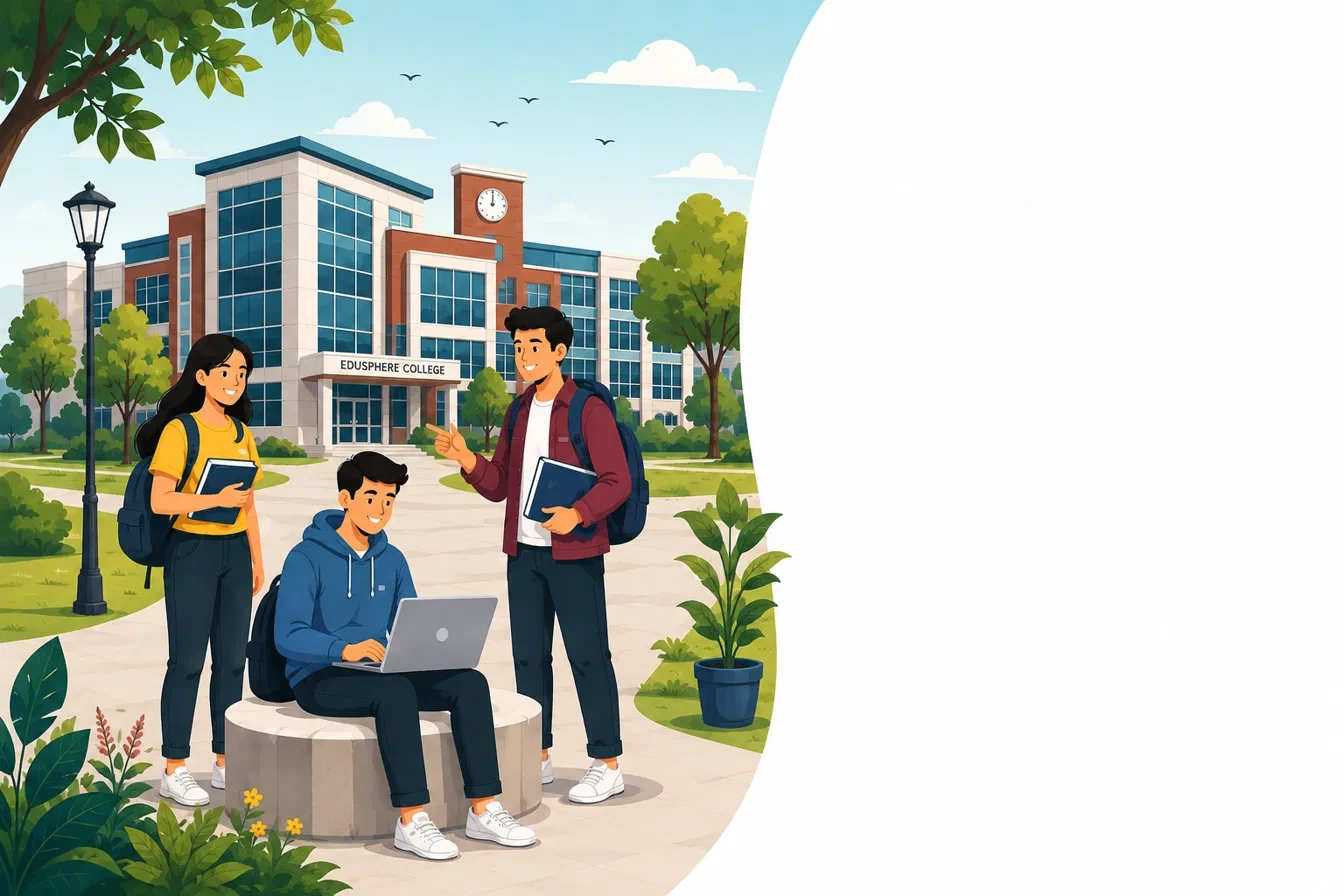
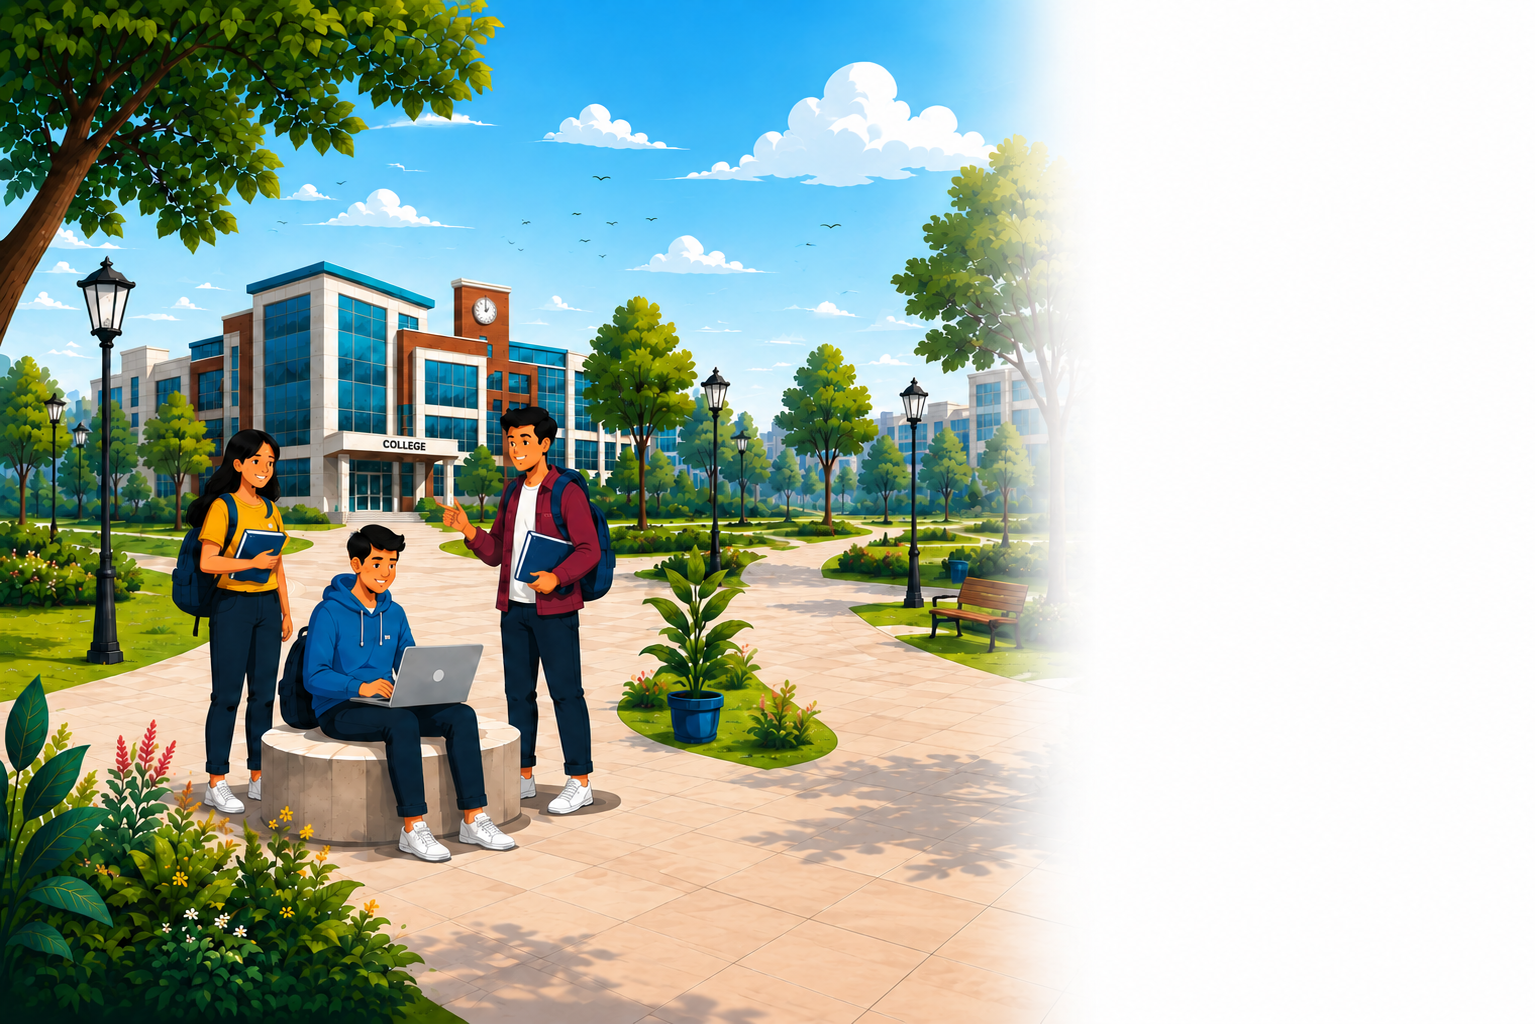
frontend updated

diff --git a/frontend-web/src/pages/LoginPage.tsx b/frontend-web/src/pages/LoginPage.tsx
@@ -129,185 +129,197 @@ export function LoginPage() {
   }
 
   return (
-    <div className="relative min-h-screen w-full overflow-hidden bg-white">
-      {/* Single full-bleed illustration, edge to edge - its own built-in
-          white area is where the form sits, no card/box around any of it. */}
-      <img
-        src={campusIllustration}
-        alt="Students on campus outside the college building"
-        draggable={false}
-        className="absolute inset-0 hidden h-full w-full select-none object-cover lg:block"
-      />
+    <div className="relative flex h-screen w-full overflow-hidden bg-white">
+      {/* Left column: illustration. object-cover fills its own column
+          completely (no empty gaps); object-position centers the crop.
+          The brand mark is overlaid on top of the illustration itself
+          (top-left corner) instead of living in the form column. */}
+      <div className="relative hidden h-full w-[53%] overflow-hidden lg:block">
+        <img
+          src={campusIllustration}
+          alt="Students on campus outside the college building"
+          draggable={false}
+          className="h-full w-full select-none"
+          style={{
+            objectFit: 'cover',
+            objectPosition: '12% center',
+            transform: 'scale(1)',
+          }}
+        />
 
-      {/* Form fields, placed directly on the image's white area. */}
-      <div className="relative flex min-h-screen w-full flex-col p-6 sm:p-10 lg:absolute lg:inset-y-0 lg:right-0 lg:flex lg:min-h-0 lg:w-[45%] lg:items-center lg:justify-center lg:p-12">
+        {/* Brand mark overlay - top left of the illustration */}
+        <div className="absolute left-8 top-8 flex items-end gap-3">
+          <BrandMark />
+          <span className="pt-1.5 text-xl font-semibold text-white drop-shadow-md">
+            EduSphere <span style={{ color: '#4ADE80' }}>ERP</span>
+          </span>
+        </div>
+      </div>
+
+      {/* Right column: form fields on a plain white background.
+          overflow-hidden (no scrollbar) - content is expected to fit
+          within the viewport height. */}
+      <div className="flex h-screen w-full flex-col overflow-hidden p-6 sm:p-10 lg:flex lg:h-full lg:w-[45%] lg:items-center lg:justify-center lg:p-12">
         <motion.div
           className="w-full max-w-[420px]"
           variants={formStagger}
           initial="hidden"
           animate="show"
         >
-          <motion.div variants={formField} className="mb-8 flex items-center gap-3">
-            <BrandMark />
-            <span className="text-xl font-semibold text-[#1F2937]">
-              EduSphere <span style={{ color: '#15803D' }}>ERP</span>
-              </span>
-            </motion.div>
-
-            <motion.div variants={formField} className="mb-8">
-              <h1 className="text-[36px] font-bold leading-tight text-[#1F2937] sm:text-[40px]">
-                Welcome Back!
-              </h1>
-              <p className="mt-2 text-sm leading-relaxed text-[#6B7280]">
-                Sign in to continue managing your institution.
-              </p>
-            </motion.div>
-
-            <form onSubmit={handleSubmit} className="space-y-4" noValidate>
-              <motion.div variants={formField} className="relative">
-                <Building2
-                  size={18}
-                  className="pointer-events-none absolute left-4 top-1/2 -translate-y-1/2 text-[#6B7280]"
-                />
-                <input
-                  id="collegeCode"
-                  name="collegeCode"
-                  type="text"
-                  autoComplete="organization"
-                  required
-                  value={collegeCode}
-                  onChange={(e) => setCollegeCode(e.target.value)}
-                  placeholder="Institution code"
-                  className="h-14 w-full rounded-2xl border border-[#E5E7EB] bg-white pl-12 pr-4 text-sm uppercase tracking-widest text-[#1F2937] placeholder:text-[#9CA3AF] placeholder:tracking-normal placeholder:normal-case transition-all duration-300 focus:border-[#22C55E] focus:outline-none focus:ring-4 focus:ring-[#22C55E]/15"
-                />
-              </motion.div>
-
-              <motion.div variants={formField} className="relative">
-                <Mail
-                  size={18}
-                  className="pointer-events-none absolute left-4 top-1/2 -translate-y-1/2 text-[#6B7280]"
-                />
-                <input
-                  id="email"
-                  name="email"
-                  type="email"
-                  autoComplete="email"
-                  required
-                  value={email}
-                  onChange={(e) => setEmail(e.target.value)}
-                  placeholder="Email address"
-                  className="h-14 w-full rounded-2xl border border-[#E5E7EB] bg-white pl-12 pr-4 text-sm text-[#1F2937] placeholder:text-[#9CA3AF] transition-all duration-300 focus:border-[#22C55E] focus:outline-none focus:ring-4 focus:ring-[#22C55E]/15"
-                />
-              </motion.div>
-
-              <motion.div variants={formField} className="relative">
-                <Lock
-                  size={18}
-                  className="pointer-events-none absolute left-4 top-1/2 -translate-y-1/2 text-[#6B7280]"
-                />
-                <input
-                  id="password"
-                  name="password"
-                  type={showPassword ? 'text' : 'password'}
-                  autoComplete="current-password"
-                  required
-                  value={password}
-                  onChange={(e) => setPassword(e.target.value)}
-                  placeholder="Password"
-                  className="h-14 w-full rounded-2xl border border-[#E5E7EB] bg-white pl-12 pr-12 text-sm text-[#1F2937] placeholder:text-[#9CA3AF] transition-all duration-300 focus:border-[#22C55E] focus:outline-none focus:ring-4 focus:ring-[#22C55E]/15"
-                />
-                <button
-                  type="button"
-                  onClick={() => setShowPassword((v) => !v)}
-                  className="absolute right-4 top-1/2 -translate-y-1/2 text-[#6B7280] transition-colors duration-200 hover:text-[#1F2937]"
-                  aria-label={showPassword ? 'Hide password' : 'Show password'}
-                >
-                  {showPassword ? <EyeOff size={18} /> : <Eye size={18} />}
-                </button>
-              </motion.div>
-
-              <motion.div variants={formField} className="flex items-center justify-between pt-1">
-                <label className="flex select-none items-center gap-2 text-sm text-[#6B7280]">
-                  <input
-                    type="checkbox"
-                    checked={rememberMe}
-                    onChange={(e) => setRememberMe(e.target.checked)}
-                    className="h-4 w-4 rounded border-[#E5E7EB] accent-[#22C55E] focus:ring-[#22C55E]"
-                  />
-                  Remember me
-                </label>
-                <Link
-                  to="/forgot-password"
-                  className="text-sm font-medium text-[#15803D] transition-colors duration-200 hover:text-[#22C55E]"
-                >
-                  Forgot Password?
-                </Link>
-              </motion.div>
-
-              <AnimatePresence>
-                {error && (
-                  <motion.div
-                    role="alert"
-                    initial={{ opacity: 0, x: 0 }}
-                    animate={{ opacity: 1, x: [0, -6, 6, -4, 4, 0] }}
-                    exit={{ opacity: 0, height: 0 }}
-                    transition={{ duration: 0.4 }}
-                    className="rounded-xl border border-red-200 bg-red-50 px-4 py-3 text-sm text-red-600"
-                  >
-                    {error}
-                  </motion.div>
-                )}
-              </AnimatePresence>
-
-              <motion.button
-                variants={formField}
-                type="submit"
-                disabled={isSubmitting}
-                whileHover={isSubmitting ? undefined : { y: -2 }}
-                whileTap={isSubmitting ? undefined : { scale: 0.98 }}
-                className="flex h-14 w-full items-center justify-center gap-2 rounded-2xl bg-gradient-to-r from-[#22C55E] to-[#15803D] text-sm font-semibold text-white shadow-md transition-all duration-300 hover:from-[#16A34A] hover:to-[#14532D] hover:shadow-lg disabled:cursor-not-allowed disabled:opacity-60"
-              >
-                {isSubmitting && <Loader2 size={16} className="animate-spin" />}
-                {isSubmitting ? 'Signing in…' : 'Sign In'}
-              </motion.button>
-            </form>
-
-            <motion.div variants={formField} className="my-7 flex items-center gap-3">
-              <span className="h-px flex-1 bg-[#E5E7EB]" />
-              <span className="text-xs font-medium uppercase tracking-wider text-[#6B7280]">
-                Or continue with
-              </span>
-              <span className="h-px flex-1 bg-[#E5E7EB]" />
-            </motion.div>
-
-            <motion.div variants={formField} className="grid grid-cols-2 gap-3">
-              {/* Not wired to a real identity provider yet - visual placeholders
-                  matching the requested design; see chat for follow-up. */}
-              <button
-                type="button"
-                disabled
-                className="flex h-12 items-center justify-center gap-2 rounded-2xl border border-[#E5E7EB] bg-white text-sm font-medium text-[#1F2937] opacity-60 transition-all duration-300 hover:-translate-y-0.5 hover:border-[#22C55E]/40"
-                title="Google sign-in isn't connected yet"
-              >
-                <GoogleIcon />
-                Google
-              </button>
-              <button
-                type="button"
-                disabled
-                className="flex h-12 items-center justify-center gap-2 rounded-2xl border border-[#E5E7EB] bg-white text-sm font-medium text-[#1F2937] opacity-60 transition-all duration-300 hover:-translate-y-0.5 hover:border-[#22C55E]/40"
-                title="Microsoft sign-in isn't connected yet"
-              >
-                <MicrosoftIcon />
-                Microsoft
-              </button>
-            </motion.div>
-
-            <motion.p variants={formField} className="mt-9 text-center text-xs text-[#6B7280]">
-              © {new Date().getFullYear()} EduSphere ERP. All rights reserved.
-            </motion.p>
+          <motion.div variants={formField} className="mb-8">
+            <h1 className="text-[36px] font-bold leading-tight text-[#1F2937] sm:text-[40px]">
+              Welcome Back!
+            </h1>
+            <p className="mt-2 text-sm leading-relaxed text-[#6B7280]">
+              Sign in to continue managing your institution.
+            </p>
           </motion.div>
-        </div>
+
+          <form onSubmit={handleSubmit} className="space-y-4" noValidate>
+            <motion.div variants={formField} className="relative">
+              <Building2
+                size={18}
+                className="pointer-events-none absolute left-4 top-1/2 -translate-y-1/2 text-[#6B7280]"
+              />
+              <input
+                id="collegeCode"
+                name="collegeCode"
+                type="text"
+                autoComplete="organization"
+                required
+                value={collegeCode}
+                onChange={(e) => setCollegeCode(e.target.value)}
+                placeholder="Institution code"
+                className="h-14 w-full rounded-2xl border border-[#E5E7EB] bg-white pl-12 pr-4 text-sm uppercase tracking-widest text-[#1F2937] placeholder:text-[#9CA3AF] placeholder:tracking-normal placeholder:normal-case transition-all duration-300 focus:border-[#22C55E] focus:outline-none focus:ring-4 focus:ring-[#22C55E]/15"
+              />
+            </motion.div>
+
+            <motion.div variants={formField} className="relative">
+              <Mail
+                size={18}
+                className="pointer-events-none absolute left-4 top-1/2 -translate-y-1/2 text-[#6B7280]"
+              />
+              <input
+                id="email"
+                name="email"
+                type="email"
+                autoComplete="email"
+                required
+                value={email}
+                onChange={(e) => setEmail(e.target.value)}
+                placeholder="Email address"
+                className="h-14 w-full rounded-2xl border border-[#E5E7EB] bg-white pl-12 pr-4 text-sm text-[#1F2937] placeholder:text-[#9CA3AF] transition-all duration-300 focus:border-[#22C55E] focus:outline-none focus:ring-4 focus:ring-[#22C55E]/15"
+              />
+            </motion.div>
+
+            <motion.div variants={formField} className="relative">
+              <Lock
+                size={18}
+                className="pointer-events-none absolute left-4 top-1/2 -translate-y-1/2 text-[#6B7280]"
+              />
+              <input
+                id="password"
+                name="password"
+                type={showPassword ? 'text' : 'password'}
+                autoComplete="current-password"
+                required
+                value={password}
+                onChange={(e) => setPassword(e.target.value)}
+                placeholder="Password"
+                className="h-14 w-full rounded-2xl border border-[#E5E7EB] bg-white pl-12 pr-12 text-sm text-[#1F2937] placeholder:text-[#9CA3AF] transition-all duration-300 focus:border-[#22C55E] focus:outline-none focus:ring-4 focus:ring-[#22C55E]/15"
+              />
+              <button
+                type="button"
+                onClick={() => setShowPassword((v) => !v)}
+                className="absolute right-4 top-1/2 -translate-y-1/2 text-[#6B7280] transition-colors duration-200 hover:text-[#1F2937]"
+                aria-label={showPassword ? 'Hide password' : 'Show password'}
+              >
+                {showPassword ? <EyeOff size={18} /> : <Eye size={18} />}
+              </button>
+            </motion.div>
+
+            <motion.div variants={formField} className="flex items-center justify-between pt-1">
+              <label className="flex select-none items-center gap-2 text-sm text-[#6B7280]">
+                <input
+                  type="checkbox"
+                  checked={rememberMe}
+                  onChange={(e) => setRememberMe(e.target.checked)}
+                  className="h-4 w-4 rounded border-[#E5E7EB] accent-[#22C55E] focus:ring-[#22C55E]"
+                />
+                Remember me
+              </label>
+              <Link
+                to="/forgot-password"
+                className="text-sm font-medium text-[#15803D] transition-colors duration-200 hover:text-[#22C55E]"
+              >
+                Forgot Password?
+              </Link>
+            </motion.div>
+
+            <AnimatePresence>
+              {error && (
+                <motion.div
+                  role="alert"
+                  initial={{ opacity: 0, x: 0 }}
+                  animate={{ opacity: 1, x: [0, -6, 6, -4, 4, 0] }}
+                  exit={{ opacity: 0, height: 0 }}
+                  transition={{ duration: 0.4 }}
+                  className="rounded-xl border border-red-200 bg-red-50 px-4 py-3 text-sm text-red-600"
+                >
+                  {error}
+                </motion.div>
+              )}
+            </AnimatePresence>
+
+            <motion.button
+              variants={formField}
+              type="submit"
+              disabled={isSubmitting}
+              whileHover={isSubmitting ? undefined : { y: -2 }}
+              whileTap={isSubmitting ? undefined : { scale: 0.98 }}
+              className="flex h-14 w-full items-center justify-center gap-2 rounded-2xl bg-gradient-to-r from-[#22C55E] to-[#15803D] text-sm font-semibold text-white shadow-md transition-all duration-300 hover:from-[#16A34A] hover:to-[#14532D] hover:shadow-lg disabled:cursor-not-allowed disabled:opacity-60"
+            >
+              {isSubmitting && <Loader2 size={16} className="animate-spin" />}
+              {isSubmitting ? 'Signing in…' : 'Sign In'}
+            </motion.button>
+          </form>
+
+          <motion.div variants={formField} className="my-7 flex items-center gap-3">
+            <span className="h-px flex-1 bg-[#E5E7EB]" />
+            <span className="text-xs font-medium uppercase tracking-wider text-[#6B7280]">
+              Or continue with
+            </span>
+            <span className="h-px flex-1 bg-[#E5E7EB]" />
+          </motion.div>
+
+          <motion.div variants={formField} className="grid grid-cols-2 gap-3">
+            {/* Not wired to a real identity provider yet - visual placeholders
+                matching the requested design; see chat for follow-up. */}
+            <button
+              type="button"
+              disabled
+              className="flex h-12 items-center justify-center gap-2 rounded-2xl border border-[#E5E7EB] bg-white text-sm font-medium text-[#1F2937] opacity-60 transition-all duration-300 hover:-translate-y-0.5 hover:border-[#22C55E]/40"
+              title="Google sign-in isn't connected yet"
+            >
+              <GoogleIcon />
+              Google
+            </button>
+            <button
+              type="button"
+              disabled
+              className="flex h-12 items-center justify-center gap-2 rounded-2xl border border-[#E5E7EB] bg-white text-sm font-medium text-[#1F2937] opacity-60 transition-all duration-300 hover:-translate-y-0.5 hover:border-[#22C55E]/40"
+              title="Microsoft sign-in isn't connected yet"
+            >
+              <MicrosoftIcon />
+              Microsoft
+            </button>
+          </motion.div>
+
+          <motion.p variants={formField} className="mt-9 text-center text-xs text-[#6B7280]">
+            © {new Date().getFullYear()} EduSphere ERP. All rights reserved.
+          </motion.p>
+        </motion.div>
       </div>
+    </div>
   )
 }
